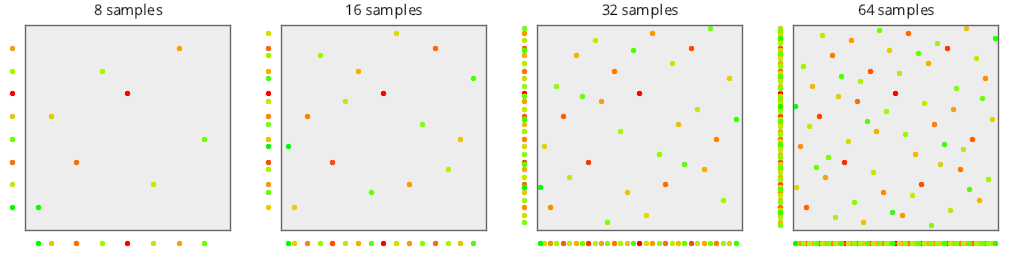
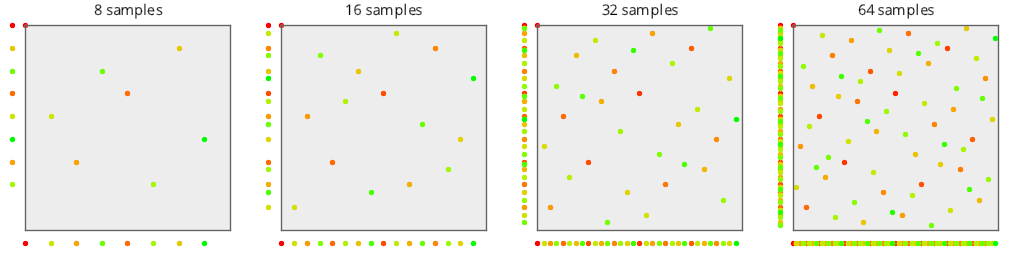
Fixing Halton_2_3_zero

diff --git a/src/families/_2d/samples/lds/LDS.cpp b/src/families/_2d/samples/lds/LDS.cpp
@@ -96,8 +96,8 @@ void _2d::Samples::LDS::Sobol(std::vector<Vec2>& values, size_t numValues, std::
 void _2d::Samples::LDS::Halton_2_3_Zero(std::vector<Vec2>& values, size_t numValues, std::mt19937& rng)
 {
     values.resize(numValues);
-    VanDerCorput(values, 2, 0, true, 0);
-    VanDerCorput(values, 3, 1, true, 0);
+    VanDerCorput(values, 2, 0, false, 0);
+    VanDerCorput(values, 3, 1, false, 0);
 }
 
 void _2d::Samples::LDS::Halton_2_3(std::vector<Vec2>& values, size_t numValues, std::mt19937& rng)
